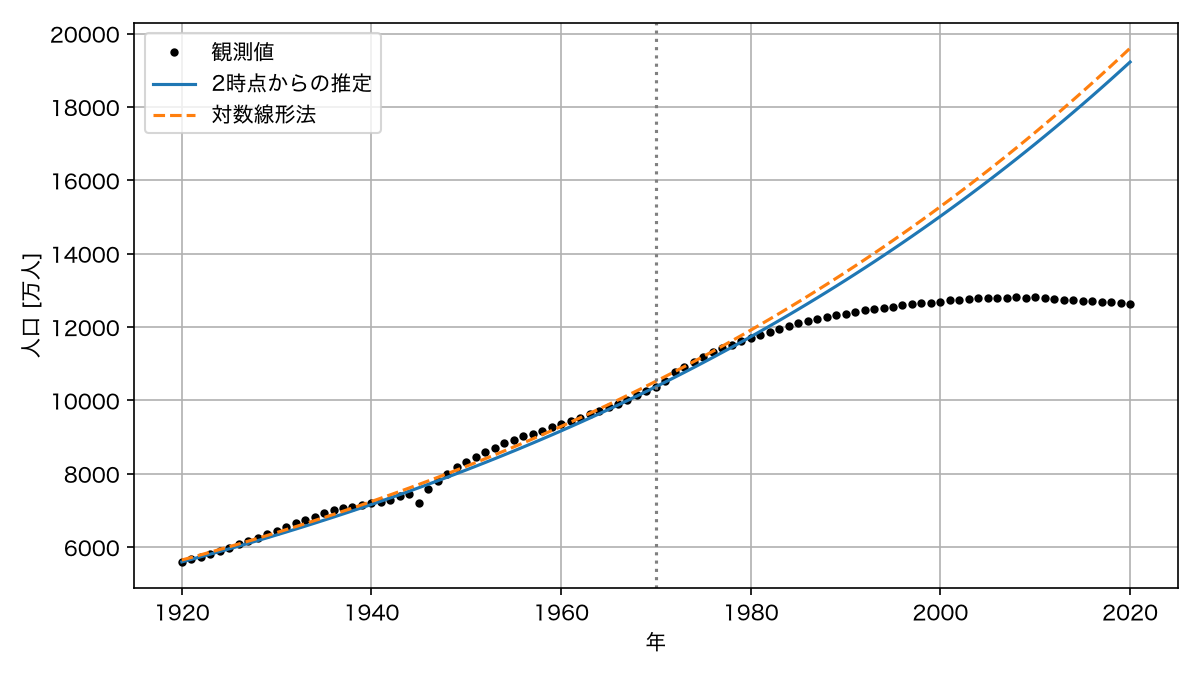
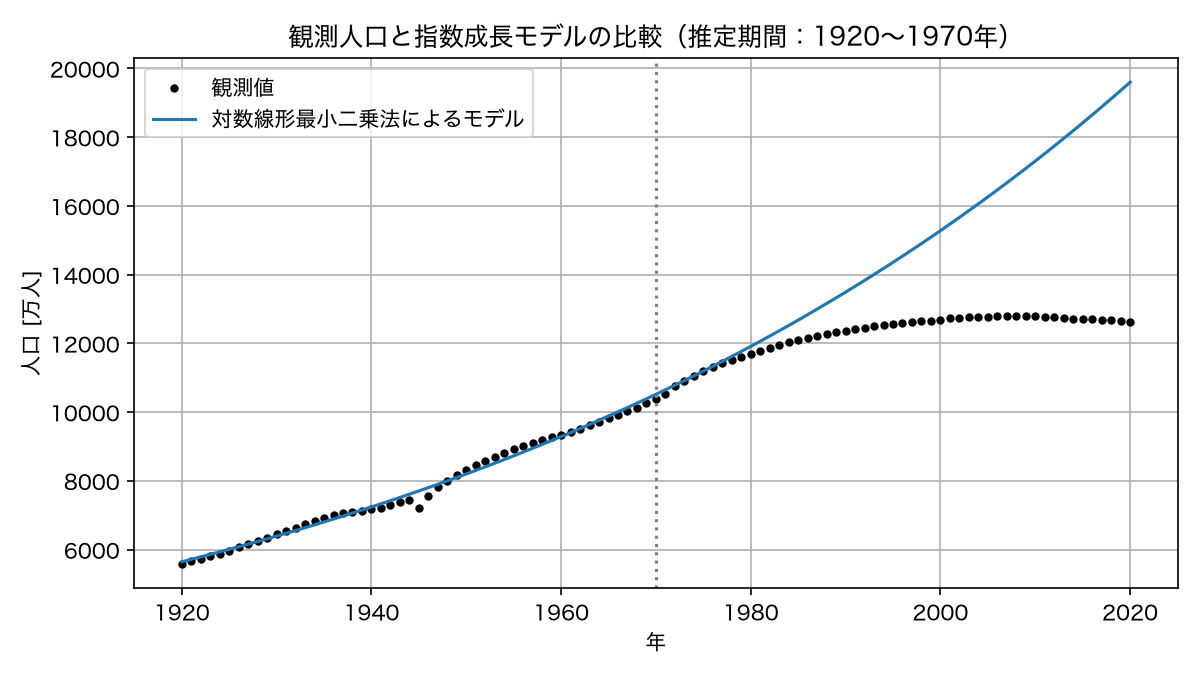
update 3 ex2

Changed region(s): [[0.0308, 0.0311, 0.9867, 0.84], [0.0, 0.2489, 0.1233, 0.5289]]

diff --git a/contents/3_population_exponential.md b/contents/3_population_exponential.md
@@ -108,16 +108,18 @@ applied_programming_ii/
 
 ## 演習3：図と残差
 
+1920〜1970年の観測値に対数線形最小二乗法を適用したモデルを用いる．
+
 - 残差が正の期間とその意味：
 - 残差が負の期間とその意味：
 - 1945年と2020年の残差の解釈：
 
-| 推定方法（1920〜1970年） | 2020年のモデル値 [万人] | 観測値 [万人] | 絶対誤差 [万人] |
+| 評価する年 | モデル値 [万人] | 観測値 [万人] | 絶対誤差 [万人] |
 | --- | --- | --- | --- |
-| 2時点からの推定 | | | |
-| 対数線形法 | | | |
+| 2020 | | | |
 
-- 2020年の絶対誤差の比較と，1時点だけで判断することの問題点：
+- 2020年のモデル値と観測値の比較：
+- 1時点の誤差だけで他の年への適用可能性を判断することの問題点：
 
 ## 演習4：外挿期間と誤差
 
@@ -617,7 +619,7 @@ plt.show()
 
 ### 観測値とモデルを同じ図に描く
 
-第1回の重ね描きを再利用する．演習2の設定を1920〜1970年に戻し，推定した$r,N_0$を以後の基準モデルに使う．
+第1回の重ね描きを再利用する．演習2の設定を1920〜1970年に戻し，対数線形最小二乗法で推定した$r,N_0$を以後の基準モデルに使う．演習3でも，このモデルだけを観測値と比較する．
 
 ```python
 fit_mask = (year_obs >= 1920) & (year_obs <= 1970)
@@ -711,9 +713,11 @@ print(f"それ以降の期間（1971〜2020年）の MSE           = {mse_after:
 
 ````{note} 演習3：図と残差を読む
 
+1920〜1970年の観測値に対数線形最小二乗法を適用したモデルを用いよ．
+
 1. 残差が正の期間と負の期間を`README.md`に記入し，それぞれ観測値とモデル値の大小関係を説明せよ．
-2. 1945年と2020年の負の残差について，集計上の注意点と一定の増加率という仮定の限界を区別して説明せよ．原因の特定には追加資料が必要であることにも言及せよ．
-3. 1920年と1970年の観測値から求めた $r$ と1920年の観測値 $N_0$ を使い，比較図と残差図を描け．両推定方法の2020年のモデル値・観測値・絶対誤差を表に記入し，比較せよ．1時点の誤差だけで他の年への適用可能性を判断できるかを説明せよ．
+2. 1945年と2020年の負の残差について，集計上の注意点と一定の増加率という仮定の限界を区別して説明せよ．原因の特定には例えばどのような追加資料が必要であるかも考察せよ．
+3. 本文のコードを用いて，観測値とモデル値の比較図および残差図を描け．2020年のモデル値・観測値・絶対誤差を`README.md`の表に記入し，モデル値と観測値を比較せよ．1時点の誤差だけで他の年への適用可能性を判断できるかを説明せよ．
 ````
 
 <!--
@@ -731,7 +735,9 @@ print(f"それ以降の期間（1971〜2020年）の MSE           = {mse_after:
 - 1945年：残差は約−493.3万人．戦中戦後の人口変動に加え，11月1日の調査に基づく補正人口であること，沖縄県を含まないことに注意する．この値だけでは死亡・移動・集計変更の寄与を分離できない．
 - 2020年：残差は約−6985.2万人．長期にわたる過大評価は，一定の純増加率という仮定の限界を示す．原因を特定するには出生・死亡・年齢構成などの追加資料が必要である．
 
-**設問3：両推定方法の比較**
+**設問3：対数線形最小二乗法によるモデルと観測値の比較**
+
+本文の推定・描画コードを再利用する．同じ推定値から比較図と残差図を作成し，2020年に対応する要素を取り出して絶対誤差を求める．
 
 ```python
 # 基準となる対数線形法の推定値を再計算する．
@@ -744,17 +750,12 @@ residual = y_obs - N_model
 print("残差が正の年:", year_obs[residual > 0])
 print("残差が負の年:", year_obs[residual < 0])
 
-N0 = y_obs[year_obs == 1920][0]
-r_two_point = np.log(y_obs[year_obs == 1970][0] / N0) / 50.0
-N_two_point = exponential_solution(t_obs, N0, r_two_point)
-residual_two_point = y_obs - N_two_point
-
 fig, ax = plt.subplots(figsize=(8, 4.5))
 ax.plot(year_obs, y_obs, color="black", marker="o", markersize=3,
         linestyle="none", label="観測値")
-ax.plot(year_obs, N_two_point, label="2時点からの推定")
-ax.plot(year_obs, N_model, linestyle="--", label="対数線形法")
+ax.plot(year_obs, N_model, label="対数線形最小二乗法によるモデル")
 ax.axvline(1970, color="gray", linestyle=":")
+ax.set_title("観測人口と指数成長モデルの比較（推定期間：1920〜1970年）")
 ax.set_xlabel("年")
 ax.set_ylabel("人口 [万人]")
 ax.grid(True)
@@ -764,10 +765,11 @@ fig.savefig(FIGURE_DIR / "exercise3_population_fit.png", dpi=150)
 plt.show()
 
 fig, ax = plt.subplots(figsize=(8, 3.5))
-ax.plot(year_obs, residual_two_point, label="2時点からの推定")
-ax.plot(year_obs, residual, linestyle="--", label="対数線形法")
+ax.plot(year_obs, residual, marker="o", markersize=3,
+        label="対数線形最小二乗法によるモデルの残差")
 ax.axhline(0, color="black", linewidth=0.8)
 ax.axvline(1970, color="gray", linestyle=":")
+ax.set_title("人口モデルの残差（観測値−モデル値）")
 ax.set_xlabel("年")
 ax.set_ylabel("残差 [万人]")
 ax.grid(True)
@@ -777,48 +779,45 @@ fig.savefig(FIGURE_DIR / "exercise3_population_residual.png", dpi=150)
 plt.show()
 
 observed = y_obs[year_obs == 2020][0]
-model_two_point = N_two_point[year_obs == 2020][0]
 model_loglinear = N_model[year_obs == 2020][0]
-print("2時点からの推定:", model_two_point, observed, abs(model_two_point - observed))
-print("対数線形法:", model_loglinear, observed, abs(model_loglinear - observed))
+print(f"2020年のモデル値: {model_loglinear:.1f} 万人")
+print(f"2020年の観測値: {observed:.1f} 万人")
+print(f"2020年の絶対誤差: {abs(model_loglinear - observed):.1f} 万人")
 ```
 
-![演習3・設問3：観測人口と2時点からの推定・対数線形法によるモデル値](figs/03/exercise3_population_fit.png)
+![演習3・設問3：観測人口と対数線形最小二乗法によるモデル値](figs/03/exercise3_population_fit.png)
 
-![演習3・設問3：両推定方法の残差（観測値−モデル値）](figs/03/exercise3_population_residual.png)
+![演習3・設問3：対数線形最小二乗法によるモデルの残差（観測値−モデル値）](figs/03/exercise3_population_residual.png)
 
-| 推定方法 | 2020年のモデル値 [万人] | 観測値 [万人] | 絶対誤差 [万人] |
+| 評価する年 | モデル値 [万人] | 観測値 [万人] | 絶対誤差 [万人] |
 | --- | ---: | ---: | ---: |
-| 2時点からの推定 | 19223.1 | 12614.6 | 6608.5 |
-| 対数線形法 | 19599.8 | 12614.6 | 6985.2 |
+| 2020 | 19599.8 | 12614.6 | 6985.2 |
 
-- 比較：2020年の絶対誤差は2時点からの推定の方が小さいが，両方法とも大幅に過大評価している．
+- 比較：2020年のモデル値は観測値を約6985.2万人上回り，大幅に過大評価している．
 - 評価の限界：1時点だけの結果から他の年への適用可能性は判断できない．推定に使わなかった複数時点の残差やMSE・RMSEも調べる必要がある．対数線形法は2020年の誤差を最小にする方法ではない．
 ````
 -->
 
-````{dropdown} コードの補足：推定方法を変えて比較する
+````{dropdown} コードの補足：2020年のモデル値と観測値を比較する
 
-基準モデルの変数を上書きせず，2時点からの推定の結果を別の変数に保存する．本文の描画コードをコピーし，描く配列を置き換えれば比較できる．
+本文で計算した`N_model`から，2020年に対応する要素を取り出す．
 
 ```python
-N_two_point = exponential_solution(t_obs, N0, r_two_point)
-residual_two_point = y_obs - N_two_point
 year = 2020
 observed = y_obs[year_obs == year][0]
-model_two_point = N_two_point[year_obs == year][0]
 model_loglinear = N_model[year_obs == year][0]
-print("2時点からの推定:", model_two_point, observed, abs(model_two_point - observed))
-print("対数線形法:", model_loglinear, observed, abs(model_loglinear - observed))
+print(f"モデル値: {model_loglinear:.1f} 万人")
+print(f"観測値: {observed:.1f} 万人")
+print(f"絶対誤差: {abs(model_loglinear - observed):.1f} 万人")
 ```
 
-- 初期値：2時点からの推定では観測値`N0`，対数線形法では推定値`N0_loglinear`を使う．係数だけでなく初期値も対応させる．
-- 図の保存：比較図・残差図のラベルとファイル名も変え，基準モデルの図を上書きしない．
+- `year_obs == year`：評価する年に対応する要素を選ぶ条件．`[0]`で，選ばれた1要素を取り出す．
+- `abs(...)`：差の絶対値を求める．絶対誤差には，過大評価・過小評価を区別する符号はない．
 ````
 
 ## 未来へ外挿する危険
 
-- 外挿：推定期間外でモデル値を計算すること．第1回でも実施した操作を，今回は対数線形法の推定値で2050年まで行う．演習3の変更を戻すため，基準モデルを再計算する．
+- 外挿：推定期間外でモデル値を計算すること．第1回でも実施した操作を，今回は演習3と同じ対数線形法の推定値で2050年まで行う．単独でも再実行できるように，基準モデルのパラメタを再計算する．
 
 ```python
 fit_mask = (year_obs >= 1920) & (year_obs <= 1970)
